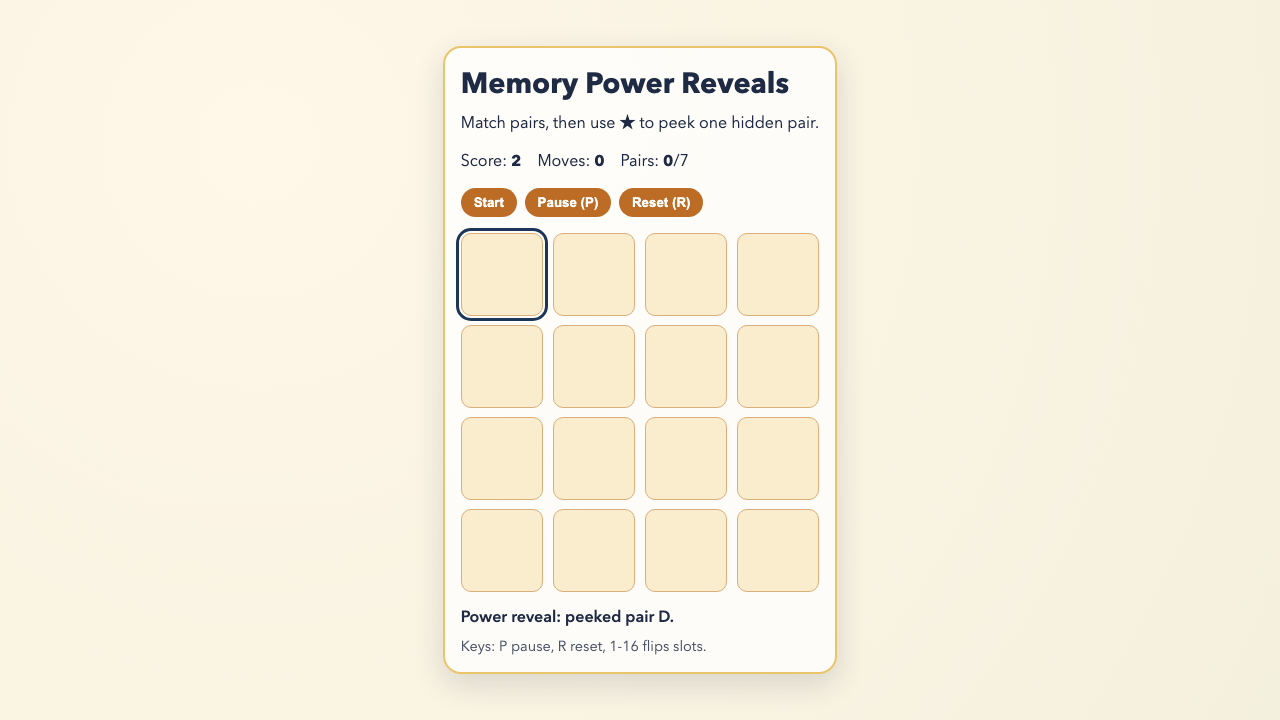
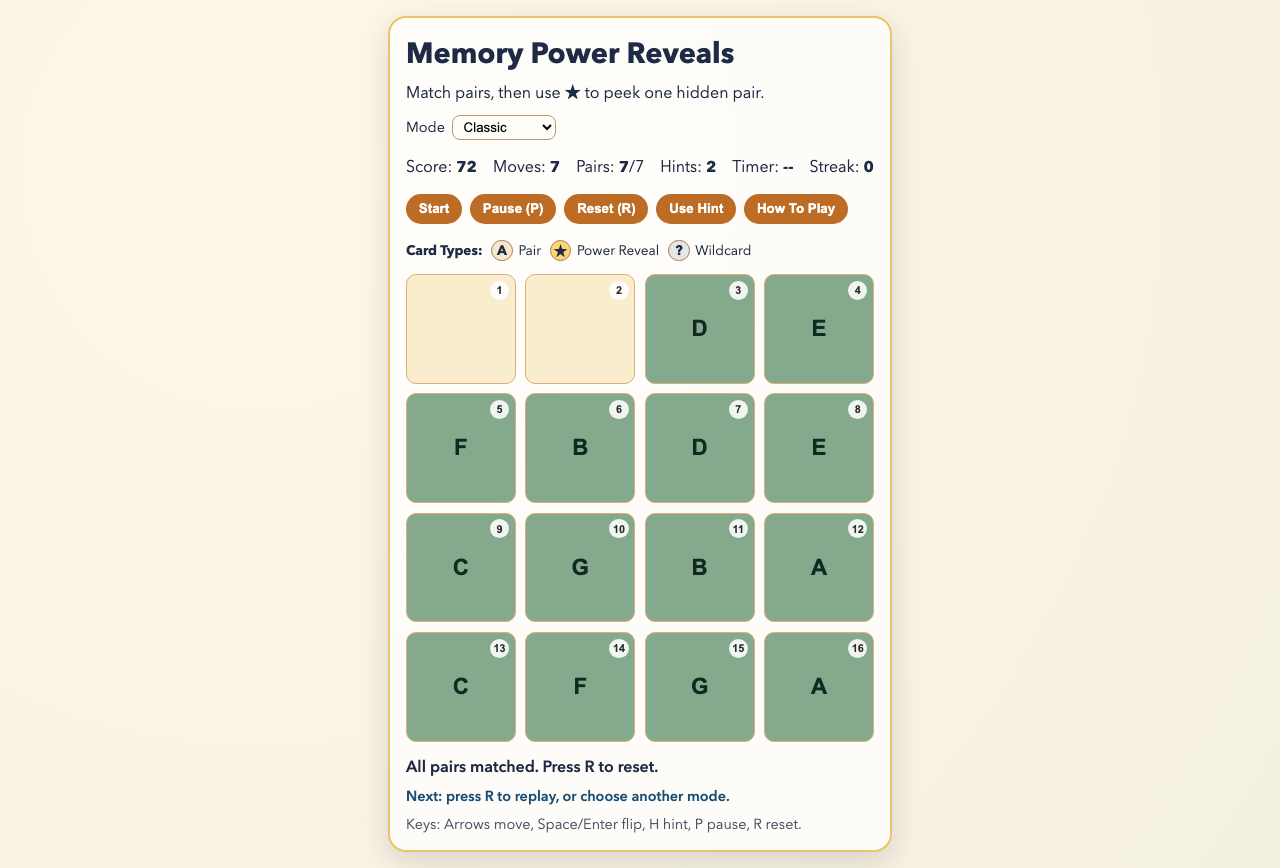
chore: refresh captures, update progress/design notes, final verification record

Changed region(s): [[0.3125, 0.0306, 0.6875, 1.0]]

diff --git a/design.md b/design.md
@@ -1,30 +1,79 @@
-# Design: Memory Power Reveals
+# Design: Memory Clarity Overhaul
 
 ## Goal
-Build a deterministic Memory (Concentration) MVP with a single twist (`power card reveals`) that remains automation-safe for unattended nightly runs.
+Make the game understandable for first-time players in under 30 seconds while preserving deterministic automation hooks and replayable depth.
 
-## Core Loop
-1. Start round on a 4x4 board.
-2. Flip two cards to attempt a symbol match.
-3. Resolve match/miss with deterministic timers.
-4. Repeat until all 7 symbol pairs are matched.
+## UX Clarity Pillars
+1. Guided onboarding with trigger-based tutorial steps.
+2. Persistent in-game help drawer with controls, rules, and card legend.
+3. Explicit mode selection with readable, mode-specific behavior.
+4. Phase-aware next-action guidance so players always know what to do next.
 
-## Twist Implementation
-- A single `★` power card exists in the deck.
-- Flipping `★` reveals one currently hidden pair for ~850ms.
-- Player receives `+2` bonus score for activation.
+## Mode Model
 
-## Determinism Strategy
-- Deck order uses a fixed seeded shuffle.
-- Timer progression is driven by explicit `advanceTime` stepping.
-- Automation can assert gameplay state via `render_game_to_text` without visual ambiguity.
+- **Classic**
+  - Miss penalty: `-2`
+  - Hint limit: `2`
+  - Hint cost: `5`
+  - Timer: none
 
-## Input Surface
-- Mouse: click card buttons.
-- Keyboard: arrows move cursor, `Space`/`Enter` flips selected card.
-- Global controls: `P` pause/resume, `R` reset.
+- **Zen**
+  - Miss penalty: `0`
+  - Hint limit: unlimited
+  - Hint cost: `0`
+  - Timer: none
 
-## Win/Loss and Scoring
-- Win when `matchedPairs === 7`.
-- No loss state; play continues until solved.
-- Scoring: `+10` match, `-2` miss (floor 0), `+2` power card use.
+- **Sprint**
+  - Miss penalty: `-2`
+  - Hint limit: `2`
+  - Hint cost: `5`
+  - Timer: `90s`
+  - Streak scoring: `+4` per consecutive match after first
+
+## Tutorial State Machine
+
+Tutorial progression is derived from explicit gameplay triggers:
+- `started`
+- `firstFlip`
+- `firstMatch`
+- `powerUsed`
+- `won`
+
+The overlay advances automatically when each trigger is satisfied.
+
+## Phase Model
+
+Primary phase values:
+- `start`
+- `waiting_first`
+- `waiting_second`
+- `resolving`
+- `paused`
+- `won`
+- `time_up`
+
+The UI computes next-action guidance from this phase model.
+
+## Card Semantics
+
+- `pair`: matchable cards worth points.
+- `power-reveal` (`★`): temporary reveal of one hidden pair.
+- `filler` (`?`): flips but cannot match.
+
+## Determinism and Automation Hooks
+
+- Deterministic deck shuffle from fixed seed.
+- Deterministic timer stepping via `window.advanceTime(ms)`.
+- Readable full game snapshot via `window.render_game_to_text()`.
+- Internal helper for solver automation: `window.__game.getState()`.
+
+## Extended Output Contract
+
+`render_game_to_text()` includes:
+- mode data: `modeId`, `modeLabel`
+- interaction state: `phase`
+- tutorial state: `tutorialVisible`, `tutorialStep`, `tutorialStepTitle`
+- hint state: `hintsRemaining`, `hintActive`
+- sprint state: `sprintTimeRemainingMs`
+- momentum state: `streak`, `maxStreak`
+- controls metadata: `controlsLegend`

diff --git a/progress.md b/progress.md
@@ -1,24 +1,44 @@
 Original prompt: unattended nightly daily classic game automation run for 2026-02-26 with fresh folder/repo, full verification, deploy, and record updates.
 
 ## Progress
-- Completed mandatory preflight and selected queue rank #1 game: `memory-concentration`.
-- Applied twist: `power card reveals`.
-- Created new folder and new repo:
-  - Local: `games/2026-02-26-memory-power-reveals`
-  - GitHub: `https://github.com/RaquazaCode/daily-classic-game-2026-02-26-memory-power-reveals`
-- Implemented deterministic Memory loop with pause/reset/restart, scoring rules, and keyboard+mouse controls.
-- Exposed required browser hooks:
-  - `window.advanceTime(ms)`
-  - `window.render_game_to_text()`
-- Added deterministic Playwright solver + artifacts and verified winning state.
+- Implemented memory clarity overhaul on branch `codex/memory-clarity-overhaul`.
+- Added 3-mode gameplay (`classic`, `zen`, `sprint`) with explicit UI mode selection.
+- Added trigger-based tutorial overlay with 5 guided steps.
+- Added persistent How To Play drawer and in-game controls legend.
+- Added card-type legend and slot index chips on every card.
+- Added contextual hint engine:
+  - Classic/Sprint: 2 hints, cost 5 score each.
+  - Zen: unlimited hints, no score cost.
+- Added Sprint timer (`90s`) with time-up state and streak scoring.
+- Added phase-driven next-action guidance (`waiting_first`, `waiting_second`, `resolving`, `paused`, `won`, `time_up`).
+- Expanded test suite for tutorial progression, mode behavior, hint constraints, sprint timeout, and serialization fields.
+- Updated Playwright action payload and deterministic solver for Classic/Zen/Sprint validation.
+- Rewrote README with detailed step-by-step gameplay, strategy, and FAQ.
 
 ## Verification Log
-- `pnpm test`: pass
+- `pnpm test`: pass (8 tests)
 - `pnpm build`: pass
-- Playwright captures: `playwright/main-actions/clip-1-opening.png`, `clip-2-midgame.png`, `clip-3-finale.png`
-- Final solver state: `mode=won`, `score=72`, `matchedPairs=7`, `powerTriggered=true`
+- `node .../web_game_playwright_client.js --actions-file playwright/main-actions/actions.json`: pass
+- `node playwright/main-actions/solver.mjs`: pass
+- Solver summary:
+  - `classicWon=true`
+  - `classicPowerTriggered=true`
+  - `zenHintNoPenalty=true`
+  - `sprintTimedOut=true`
+  - `tutorialFieldPresent=true`
+
+## Artifact Refresh
+- Updated captures:
+  - `playwright/main-actions/clip-1-opening.png`
+  - `playwright/main-actions/clip-2-midgame.png`
+  - `playwright/main-actions/clip-3-finale.png`
+- Synced media assets:
+  - `assets/images/hero.png`
+  - `assets/gifs/opening-sequence.png`
+  - `assets/gifs/power-reveal-sequence.png`
+  - `assets/gifs/finale-sequence.png`
 
 ## TODO
-- Open PR from `codex/memory-power-reveals` to `main`, merge with merge commit.
-- Run post-merge test/build, deploy preview, and record deployment metadata.
-- Update catalog/state/queue/report/index + automation memory.
+- Open PR from `codex/memory-clarity-overhaul` to `main` and merge with merge commit.
+- Run post-merge `pnpm test` and `pnpm build` on `main`.
+- Redeploy preview and verify named URL policy.
